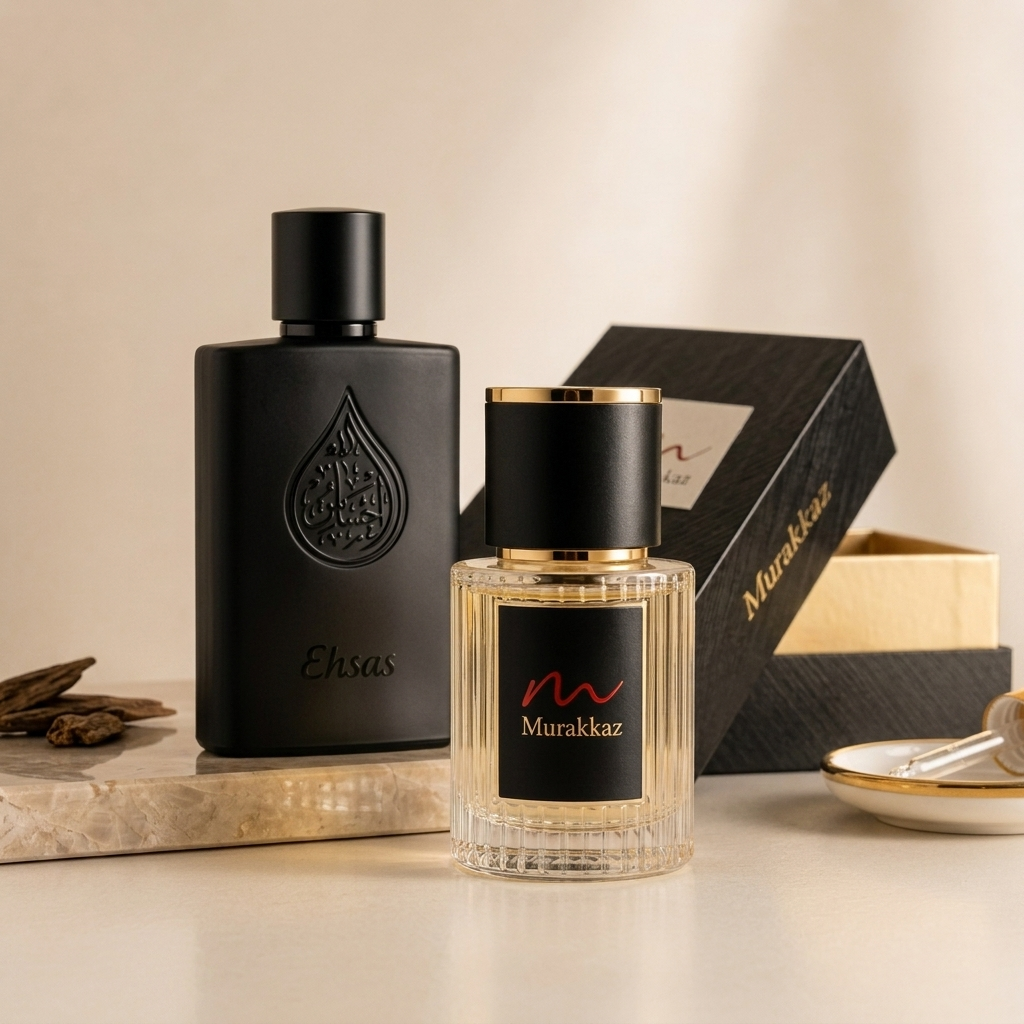
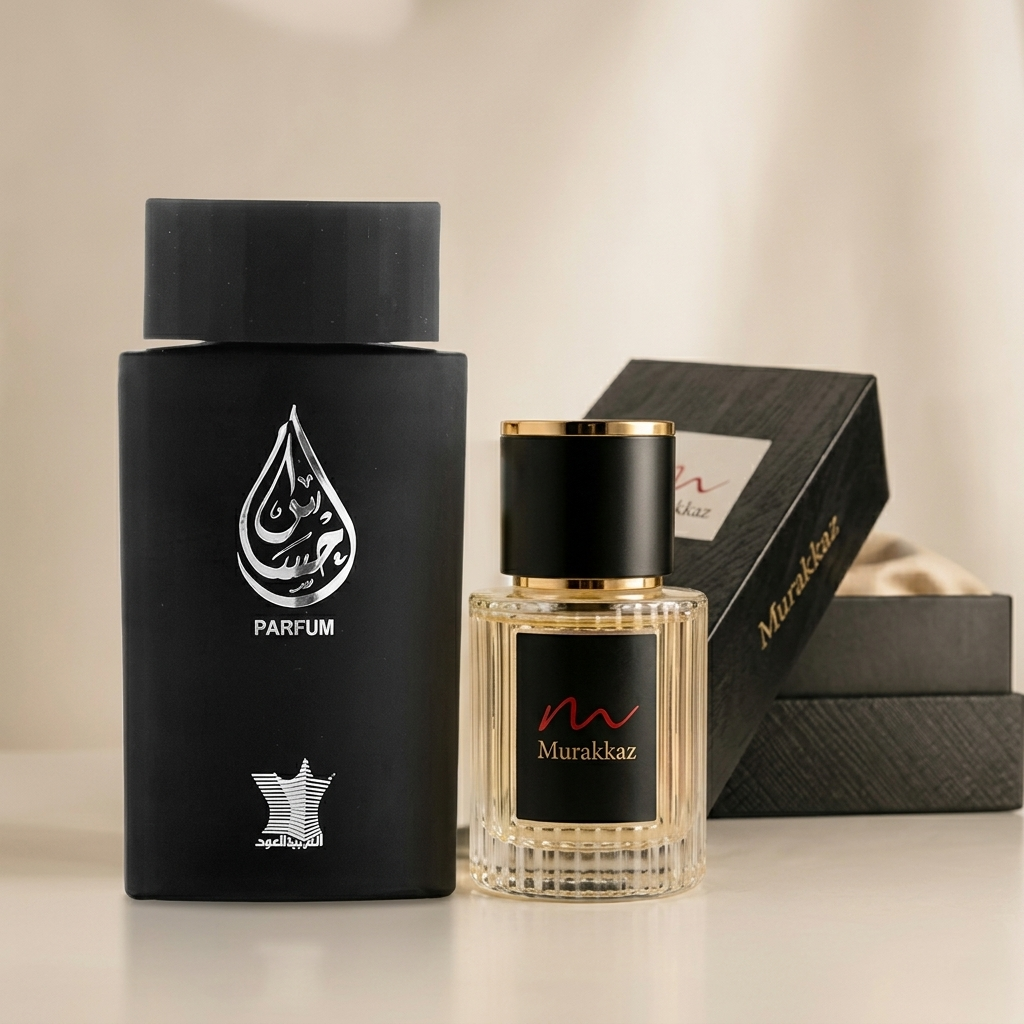
fix(catalog): update authentic Arabian Oud Ehsas master photo (v5)

diff --git a/App/src/app/data/products.ts b/App/src/app/data/products.ts
@@ -635,7 +635,7 @@ export const luxuryProducts: Product[] = [
     "priceVal": 300,
     "originalPriceVal": 400,
     "volume": "6ml - 50ml",
-    "image": "/images/products/ehsas_v3.jpg",
+    "image": "/images/products/ehsas_v5.jpg",
     "family": "ORIENTAL",
     "gender": "MEN",
     "occasion": "Daily & Executive",
